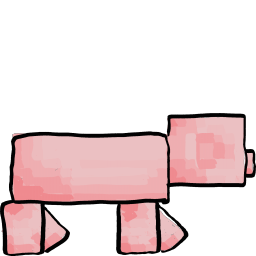
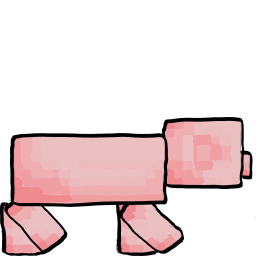
Fix run cycle, platform block seams, and shrink the default window
- Run cycle was alternating the same leg pose (frame 1 of Piggy-run.gif)
  with itself at different squash amounts -- looked like bobbing in place,
  not running, since the legs never actually moved. Frame 0 of that gif has
  a genuinely different leg pose (gathered/tucked vs frame 1's splayed
  reach) but was unused because it lacks an alpha channel (opaque black
  background instead). Added a flood-fill loader that keys out the
  background from a corner seed while leaving the pig's own outline
  linework untouched (it isn't contiguous with the border), and put this
  second real pose into pig_run_03. pig_run_01/03 are now two distinct
  poses either side of neutral, not one pose twice.

- Platform blocks showed a doubled black line at every seam: every block in
  the source sheet was drawn as its own fully-closed box (a border on all
  four sides), not pre-cut for tiling, so two adjacent tiles each
  contributed their own border at the join. Measured the border's max
  thickness directly off the art (~40px) and added SEAM_TRIM (45px) to
  crop it from whichever side(s) touch another tile -- both sides for a
  middle tile, only the inward side for a cap, so the caps keep their
  outward-facing border intact.

- Window auto-fit was still landing on a bigger window than wanted on
  typical laptop screens; tightened the fit target (0.9/0.85 -> 0.75/0.7
  of desktop size).

Re-verified the full 300-seed expert sweep (unaffected -- everything here
[…]

diff --git a/tools/build_sprites.py b/tools/build_sprites.py
@@ -45,6 +45,22 @@ def load_gif_frame(path, index):
     return surf.convert_alpha()
 
 
+def load_gif_frame_keyed(path, index, thresh=40):
+    """Some source frames were exported with an opaque background instead of
+    real alpha (frame 0 of Piggy-run.gif is plain RGB, solid black behind
+    the pig). Flood-fill from a corner -- guaranteed background -- to key
+    that out, leaving any interior near-black pixels (the outline linework)
+    untouched since they aren't contiguous with the border region."""
+    from PIL import Image as PILImage, ImageDraw as PILImageDraw
+
+    pil_img = PILImage.open(path)
+    pil_img.seek(index)
+    pil_img = pil_img.convert("RGBA")
+    PILImageDraw.floodfill(pil_img, (0, 0), (0, 0, 0, 0), thresh=thresh)
+    surf = pygame.image.frombuffer(pil_img.tobytes(), pil_img.size, "RGBA")
+    return surf.convert_alpha()
+
+
 def trim(surf):
     alpha = pygame.surfarray.array_alpha(surf)  # (W, H)
     cols = np.any(alpha > 8, axis=1)
@@ -115,19 +131,30 @@ def cut_blocks(surf, spans, row):
     return out
 
 
+def trim_side(surf, left=0, right=0):
+    """Crop pixels off the left/right edges -- used to remove a block's own
+    border stroke from whichever side will touch another tile, so two tiles
+    don't show a doubled black line where they meet."""
+    w, h = surf.get_size()
+    return surf.subsurface((left, 0, w - left - right, h)).copy()
+
+
 def main():
     still = trim(load_rgba(f"{SRC}/Piggy-still.png"))
-    run = trim(load_gif_frame(f"{SRC}/Piggy-run.gif", 1))
+    run = trim(load_gif_frame(f"{SRC}/Piggy-run.gif", 1))         # legs splayed outward -- an extension pose
+    run_tuck = trim(load_gif_frame_keyed(f"{SRC}/Piggy-run.gif", 0))  # legs gathered forward -- a collection pose
     bush = trim(load_rgba(f"{SRC}/bush.png"))
 
     save(place(bush, 256, 192), "bush_00")
 
-    # Run cycle: alternate the two drawn poses, exaggerating each with
-    # squash/stretch so the pair reads as a bounce, not just two stills.
-    save(place(still, 256, 256, 1.00, 1.00), "pig_run_00")   # neutral / passing
-    save(place(run, 256, 256, 0.90, 1.15), "pig_run_01")     # stretched -- up
-    save(place(still, 256, 256, 1.00, 1.00), "pig_run_02")   # neutral / passing
-    save(place(run, 256, 256, 1.12, 0.88), "pig_run_03")     # squashed -- down
+    # Run cycle: alternate neutral with two genuinely different leg poses
+    # (reach, then tuck) rather than the same pose squashed two different
+    # ways -- reusing one pose for both extremes read as bobbing in place,
+    # not running, since the legs themselves never actually moved.
+    save(place(still, 256, 256, 1.00, 1.00), "pig_run_00")        # neutral / passing
+    save(place(run, 256, 256, 0.90, 1.15), "pig_run_01")          # legs reach out -- stretched tall
+    save(place(still, 256, 256, 1.00, 1.00), "pig_run_02")        # neutral / passing
+    save(place(run_tuck, 256, 256, 1.12, 0.88), "pig_run_03")     # legs tuck under -- squashed
 
     save(place(still, 256, 256, 0.88, 1.22), "pig_rise_00")  # stretched tall
     save(place(run, 256, 256, 1.05, 0.95), "pig_fall_00")    # slight squash, trailing legs
@@ -165,18 +192,28 @@ def main():
     save(pygame.transform.smoothscale(ground_band, ground_out), "bg_ground")
 
     # Platform blocks: a 5-block sheet. Block 2 (0-indexed: 1) is a left
-    # edge cap, block 4 (index 3) a right edge cap -- both have a closed
-    # border on the outward side so they read as a clean end, not a cut-off
-    # tile. Blocks 1, 3, 5 (indices 0, 2, 4) are open on both sides and
-    # become the randomized middle fill, so a long platform doesn't look
-    # like the same tile stamped repeatedly.
+    # edge cap, block 4 (index 3) a right edge cap; 1, 3, 5 (indices 0, 2, 4)
+    # are the randomized middle fill. Every block was drawn as its own
+    # closed box, though -- each has a full border on *all four* sides, not
+    # just the outward-facing one -- so two tiles placed side by side showed
+    # a doubled black line at the seam instead of a continuous surface.
+    # SEAM_TRIM removes each block's own border from whichever side(s) will
+    # touch another tile (both sides for a middle tile; only the inward
+    # side for a cap), leaving the outward-facing border on the caps intact
+    # so they still read as a clean end. Measured directly off the source
+    # art: the thickest border stroke found across every row was ~40px, so
+    # 45px trims it with a small margin.
+    SEAM_TRIM = 45
     sky_blocks = load_rgba(f"{SRC}/sky-block.png")
     spans = [(211, 590), (656, 1037), (1102, 1483), (1541, 1926), (1994, 2359)]
     blocks = cut_blocks(sky_blocks, spans, row=(1255, 1639))
-    save(pygame.transform.smoothscale(blocks[1], (256, 256)), "platform_left")
-    save(pygame.transform.smoothscale(blocks[3], (256, 256)), "platform_right")
+    left_cap = trim_side(blocks[1], right=SEAM_TRIM)
+    right_cap = trim_side(blocks[3], left=SEAM_TRIM)
+    save(pygame.transform.smoothscale(left_cap, (256, 256)), "platform_left")
+    save(pygame.transform.smoothscale(right_cap, (256, 256)), "platform_right")
     for out_i, block_i in enumerate((0, 2, 4)):
-        save(pygame.transform.smoothscale(blocks[block_i], (256, 256)), f"platform_mid_{out_i:02d}")
+        mid = trim_side(blocks[block_i], left=SEAM_TRIM, right=SEAM_TRIM)
+        save(pygame.transform.smoothscale(mid, (256, 256)), f"platform_mid_{out_i:02d}")
 
 
 if __name__ == "__main__":

diff --git a/play.py b/play.py
@@ -133,8 +133,8 @@ def main():
             desktop_w, desktop_h = pygame.display.get_desktop_sizes()[0]
         except Exception:
             desktop_w, desktop_h = W.NATIVE_W * W.SCALE, W.NATIVE_H * W.SCALE
-        fit_w = int(desktop_w * 0.9) // W.NATIVE_W
-        fit_h = int(desktop_h * 0.85) // W.NATIVE_H
+        fit_w = int(desktop_w * 0.75) // W.NATIVE_W
+        fit_h = int(desktop_h * 0.7) // W.NATIVE_H
         scale = max(1, min(W.SCALE, fit_w, fit_h))
     win = pygame.display.set_mode((W.NATIVE_W * scale, W.NATIVE_H * scale))
     native = pygame.Surface((W.NATIVE_W, W.NATIVE_H))

diff --git a/assets/README.md b/assets/README.md
@@ -30,7 +30,7 @@ files high-resolution rather than pre-shrinking them.
 
 | File | Size | Notes |
 |---|---|---|
-| `pig_run_00..03.png` | 64x64 | 4-frame run cycle, plays at 12fps |
+| `pig_run_00..03.png` | 64x64 | 4-frame run cycle, plays at 12fps -- 00/02 are the neutral pose, 01/03 are two genuinely different leg poses (reach, then tuck), not one pose squashed two ways |
 | `pig_rise_00.png` | 64x64 | rising (vy < 0) |
 | `pig_fall_00.png` | 64x64 | falling (vy > 0) |
 | `pig_land_00.png` | 64x64 | landing squash, shows for 4 steps |
@@ -38,8 +38,8 @@ files high-resolution rather than pre-shrinking them.
 | `bush_00.png` | 64x48 | sweet berry bush — the only hazard right now; same file whether it's spawned on the ground or on a platform's deck, since it's the same class either way |
 | `bg_sky.png` | 2560x1200 | static sky band, above the horizon. Stretched to fill the canvas from y=0 to GROUND_Y — never scrolls |
 | `bg_ground.png` | any width x240 | ground band, below the horizon. Drawn to tile seamlessly left-to-right and scrolls at full world speed (it's the same layer hazards stand on, not a parallax backdrop) -- so unlike every other asset here, its width is **not** stretched to fit; only scaled uniformly by height (240 = 4x of NATIVE_H - GROUND_Y), so the repeat isn't warped relative to itself. The horizon still lines up with GROUND_Y exactly, since that split happens before this scaling, independent of the sky band |
-| `platform_left.png` / `platform_right.png` | 256x256 | end caps for a platform's deck — closed border on the outward side so the platform reads as a clean edge, not a cut-off tile |
-| `platform_mid_00..02.png` | 256x256 | middle-fill tiles, randomized per slot (seeded off the platform itself, so it's stable frame to frame) so a long platform doesn't look like one tile stamped repeatedly |
+| `platform_left.png` / `platform_right.png` | 256x256 | end caps for a platform's deck — closed border on the outward side so the platform reads as a clean edge, not a cut-off tile. The inward side has its border trimmed off (see SEAM_TRIM in build_sprites.py) so it doesn't double up with the next tile's own border |
+| `platform_mid_00..02.png` | 256x256 | middle-fill tiles, randomized per slot (seeded off the platform itself, so it's stable frame to frame) so a long platform doesn't look like one tile stamped repeatedly. Both sides trimmed, same reason as above -- every block in the source sheet was drawn as its own fully-closed box, not pre-cut for tiling |
 
 Platform art draws a full tile (64x64) tall now, not the old thin decorative
 strip -- it reads as an actual floating block instead of a thin deck. This
